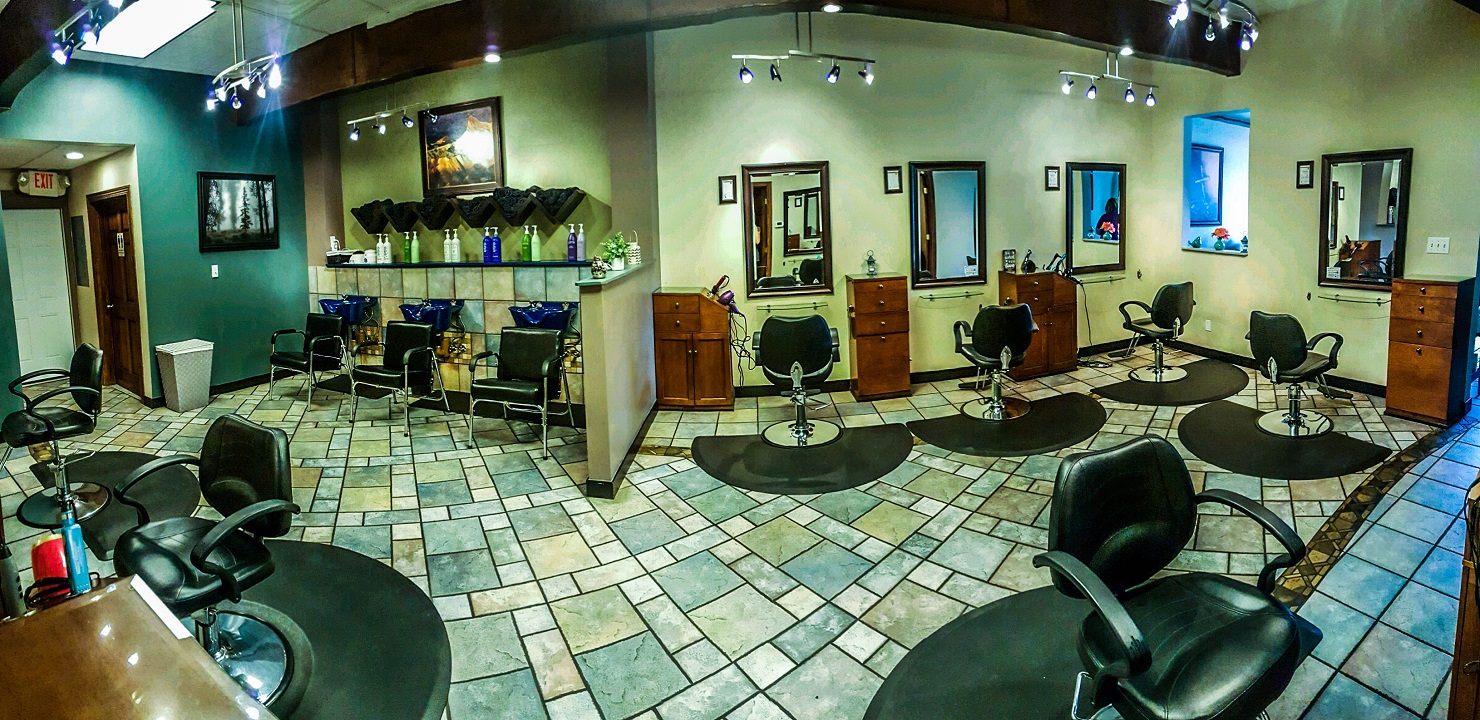
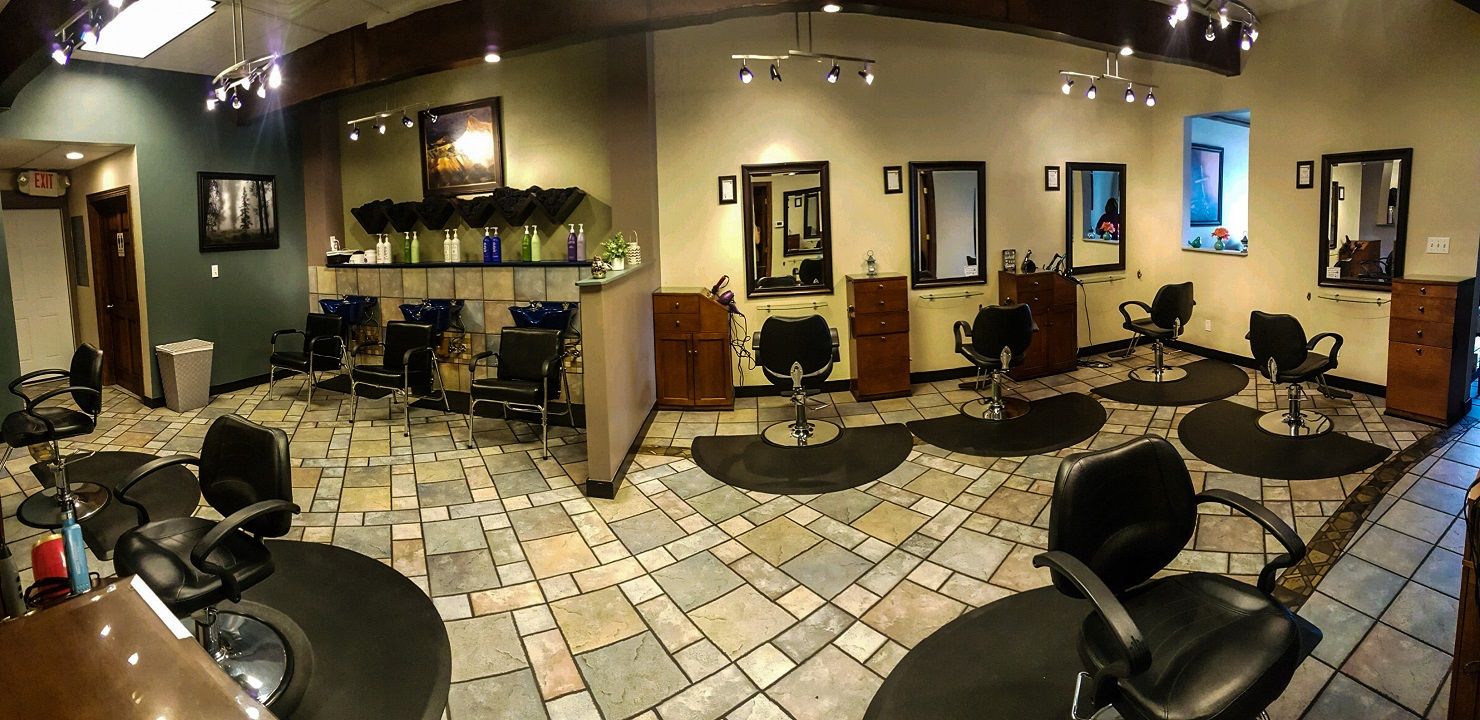
agileits fixed!
fixed agileits and changed services agileit to match others

new gallery photos and fixed chairs pano image

diff --git a/hair salon template/web/css/style.css b/hair salon template/web/css/style.css
@@ -753,8 +753,8 @@ a.w3_play_icon1:hover {
     text-align: center;
 }
 .title-agileits h3,.title-agileits h2{
-        display: block;
-       color: #00a4e4;
+	display: block;
+    color: #00a4e4; /*blue text color*/
     font-size: 2.5em;
     position: relative;
     padding-bottom: .5em;
@@ -762,7 +762,7 @@ a.w3_play_icon1:hover {
 
 .title-agileits h3:before,.title-agileits h2:before {
     content: '';
-    background: #212121;
+    background: #212121; /*underline color*/
     height: 1px;
     width: 11%;
     position: absolute;
@@ -771,12 +771,12 @@ a.w3_play_icon1:hover {
 }
 .title-agileits h3:after ,.title-agileits h2:after{
     content: '';
-    background: #fbb034;
+    background: #fbb034; /*gold middle bar color*/
     height: 5px;
     width: 3%;
     position: absolute;
     bottom: -2px;
-    left: /*560px*/50%;
+    left: /*560px*/49%;
 }
 .title-agileits1 h3{
     display: block;
@@ -799,10 +799,10 @@ a.w3_play_icon1:hover {
          content: '';
     background: #00a4e4;
     height: 4px;
-    width: 10%;
+    width: 5%;
     position: absolute;
     bottom: -1px;
-    left: 44%;
+    left: 47%;
 }
 
 h3.w3l-agile:before,h2.w3l-agile:before  {
@@ -2902,13 +2902,13 @@ section.social ul li {
 	.captn-top {
 		padding: 20% 7%;
 	}
-	.title-agileits h3:after, .title-agileits h2:after {
+	/*.title-agileits h3:after, .title-agileits h2:after {
 		height: 5px;
 		width: 3%;
 		position: absolute;
 		bottom: -2px;
 		left: 462px;
-	}
+	}*/
 }
 @media (max-width:1050px){
 	ul.nav.navbar-nav {
@@ -3049,7 +3049,7 @@ section.social ul li {
 		width: 6%;
 		position: absolute;
 		bottom: -2px;
-		left: 341px;
+		left: 47%;
 	}
 	.w3ls-info-about h4 {
       /*margin: 5px;*/
@@ -3408,12 +3408,12 @@ section.social ul li {
 		letter-spacing: 1px;
 		font-size: 0.9em;
 	}
+	
 	.title-agileits h3:after, .title-agileits h2:after {
 		height: 5px;
 		width: 6%;
 		position: absolute;
 		bottom: -2px;
-		left: 323px;
 	}
 	/*.slider-agileits-ab {
 		width: 52%;
@@ -3463,7 +3463,6 @@ section.social ul li {
 		width: 6%;
 		position: absolute;
 		bottom: -2px;
-		left: 290px;
 	}
 	.team-row.agileits-w3layouts {
 		margin-left: 10%;
@@ -3492,7 +3491,6 @@ section.social ul li {
 		width: 6%;
 		position: absolute;
 		bottom: -2px;
-		left: 281px;
 	}
 	.team-row.agileits-w3layouts {
 		margin-left: 9%;
@@ -3553,7 +3551,7 @@ section.social ul li {
 		width: 8%;
 		position: absolute;
 		bottom: -2px;
-		left: 238px;
+		left: 45.5%;
 	}
 	.w3l_about_bottom_left {
 		min-height: 448px;
@@ -3619,7 +3617,6 @@ section.social ul li {
 		width: 8%;
 		position: absolute;
 		bottom: -2px;
-		left: 238px;
 	}
 	.w3l_about_bottom_left {
 		min-height: 448px;
@@ -3673,7 +3670,6 @@ section.social ul li {
 		width: 8%;
 		position: absolute;
 		bottom: -2px;
-		left: 195px;
 	}
 	.slider-agileits-ab {
 		width: 83%;
@@ -3841,7 +3837,7 @@ section.social ul li {
 		width: 11%;
 		position: absolute;
 		bottom: -2px;
-		left: 166px;
+		left: 45.5%;
 	}
 	.baner-info h3 {
 		font-size: 1.4em;
@@ -3984,7 +3980,6 @@ section.social ul li {
 		width: 11%;
 		position: absolute;
 		bottom: -2px;
-		left: 154px;
 	}
 	.blog-left-left i {
 		font-size: 2em;

diff --git a/hair salon template/web/gallery.html b/hair salon template/web/gallery.html
@@ -200,7 +200,7 @@ License URL: http://creativecommons.org/licenses/by/3.0/
 								<figure class="effect-apollo">
 									<img src="images/gallery/g4.jpg" alt="" />
 									<figcaption>
-										<p>Hair Salon</p>
+										<p>Click to View</p>
 									</figcaption>	
 								</figure>
 							</a>
@@ -212,7 +212,7 @@ License URL: http://creativecommons.org/licenses/by/3.0/
 								<figure class="effect-apollo">
 										<img src="images/gallery/g5.jpg" alt="" />
 										<figcaption>
-											<p>Hair Salon</p>
+											<p>Click to View</p>
 										</figcaption>	
 								</figure>
 							</a>
@@ -224,7 +224,7 @@ License URL: http://creativecommons.org/licenses/by/3.0/
 								<figure class="effect-apollo">
 									<img src="images/gallery/g6.jpg" alt="" />
 									<figcaption>
-										<p>Hair Salon</p>
+										<p>Click to View</p>
 									</figcaption>		
 								</figure>
 							</a>
@@ -236,7 +236,7 @@ License URL: http://creativecommons.org/licenses/by/3.0/
 								<figure class="effect-apollo">
 									<img src="images/gallery/g7.jpg" alt="" />
 									<figcaption>
-										<p>Hair Salon</p>
+										<p>Click to View</p>
 									</figcaption>	
 								</figure>
 							</a>
@@ -248,7 +248,7 @@ License URL: http://creativecommons.org/licenses/by/3.0/
 								<figure class="effect-apollo">
 									<img src="images/gallery/g8.jpg" alt="" />
 									<figcaption>
-										<p>Hair Salon</p>
+										<p>Click to View</p>
 									</figcaption>	
 								</figure>
 							</a>
@@ -260,7 +260,7 @@ License URL: http://creativecommons.org/licenses/by/3.0/
 								<figure class="effect-apollo">
 									<img src="images/gallery/g9.jpg" alt="" />
 									<figcaption>
-									<p>Hair Salon</p>
+									<p>Click to View</p>
 									</figcaption>		
 								</figure>
 							</a>

diff --git a/hair salon template/web/test.html b/hair salon template/web/test.html
@@ -1,13 +1,43 @@
-<html>
+<!DOCTYPE html>
+<html lang="en">
 <head>
-<style>
-body {
-	background-image: url("images/bg-tile.png");
-}
-</style>
+<title>Unity Hair Studio - About</title>
+
+<link rel="stylesheet" type="text/css" href="css/style.css" />
+
 </head>
 
 <body>
-content
+<div class="title-agileits"><h2 class="w3l-agile">About Our Salon</h2></div>
+
+ <!-- screen size for debug -->
+ <span id="mediaSize"></span>
+
+	<script type="text/javascript">
+		var widthOutput = document.querySelector('#mediaSize');
+		
+		function showScreenWidth() { 
+			widthOutput.textContent = window.innerWidth;
+		}
+		
+		window.onresize = showScreenWidth;
+		window.onload = showScreenWidth;
+	
+	</script> 
 </body>
 </html>
+
+<!--
+ <div class="about-wthree">
+	<div class="container">
+	   <div class="ab-w3l-spa">
+		<div class="title-agileits">
+                        <h2 class="w3l-agile">About Our Salon</h2> 
+	          </div>
+		<p>Here at Unity Hair Studio, we are a group of talented stylists who are ready to make you look your best. Looking to try out something new? We can help! Want to upkeep the cut you already have? No problem. Voted Loveland's best hair salon, we're confident you'll leave with a style or cut you'll love, gauranteed!</p>
+		<img src="images/interior/salon color room.jpg" class="img-responsive" alt="Welcoming Waiting Room">
+		</div>
+		<div class="clearfix"> </div>
+    </div>
+</div>
+-->

diff --git a/hair salon template/web/index.html b/hair salon template/web/index.html
@@ -81,9 +81,7 @@ License URL: http://creativecommons.org/licenses/by/3.0/
 														<a href="#" class="dropdown-toggle" data-toggle="dropdown"><span data-hover="Short Codes"><span>Services</span></span> <b class="caret"></b></a>
 														 <ul class="dropdown-menu agileinfo">
 															<li><a href="services.html">Services</a></li>
-														
 															<li><a href="products.html">Products</a></li>
-															<li><a href="other.html">Other</a></li>
 													     </ul>
 													</li>
 												<li><a href="gallery.html"><span>Gallery</span></a></li> 

diff --git a/hair salon template/web/services.html b/hair salon template/web/services.html
@@ -152,7 +152,8 @@ License URL: http://creativecommons.org/licenses/by/3.0/
 <!-- //breadcrumb -->
 	<!-- about-bottom -->
 	<div class="price" id="price">
-		<div class="title-agileits1 price-agilite" id="price-agilite"> <h3>Price List</h3> </div>
+		<div class="title-agileits" id="price-agilite"><h2 class="w3l-agile">Price List</h2> </div>
+		<!--<div class="title-agileits1 price-agilite" id="price-agilite"> <h3>Price List</h3> </div>-->
 		
 	    <div class="col-md-6 w3l_about_bottom_right">
 			
